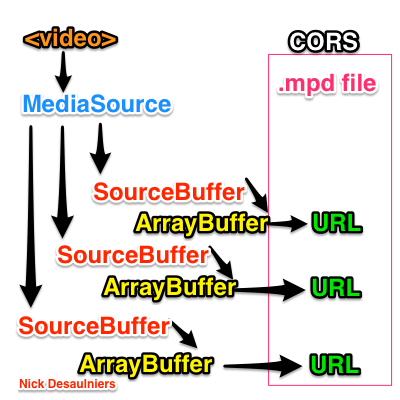
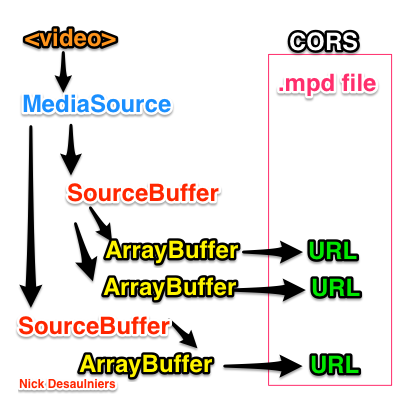
SourceBuffer itself can have many ArrayBuffers

Changed region(s): [[0.12, 0.3, 0.93, 0.72]]

diff --git a/index.html b/index.html
@@ -394,6 +394,25 @@ document.getElementsByTagName( 'head' )[0].appendChild( link );
         <h2>Media Source Extensions</h2>
         <img src="mse_rel.png" alt="media source extension relationship"/>
       </section>
+      <section>
+        <h2>MSE pseudocode</h2>
+        <pre><code class="coffeescript">
+  m = MediaSource
+  m.onsourceopen = () =&gt;
+    s = m.addSourceBuffer 'codec'
+    while numChunks &lt;= totalChunks
+      s.appendBuffer arrayBufferOfContent
+      if numChunks === totalChunks
+        m.endOfStream()
+  video.src = URL.createObjectURL m
+        </code></pre>
+      </section>
+      <section>
+        <h2>Demo: buffer ASAP</h2>
+      </section>
+      <section>
+        <h2>Demo: Buffer just in time</h2>
+      </section>
     </section>
     <section>
       <section>
